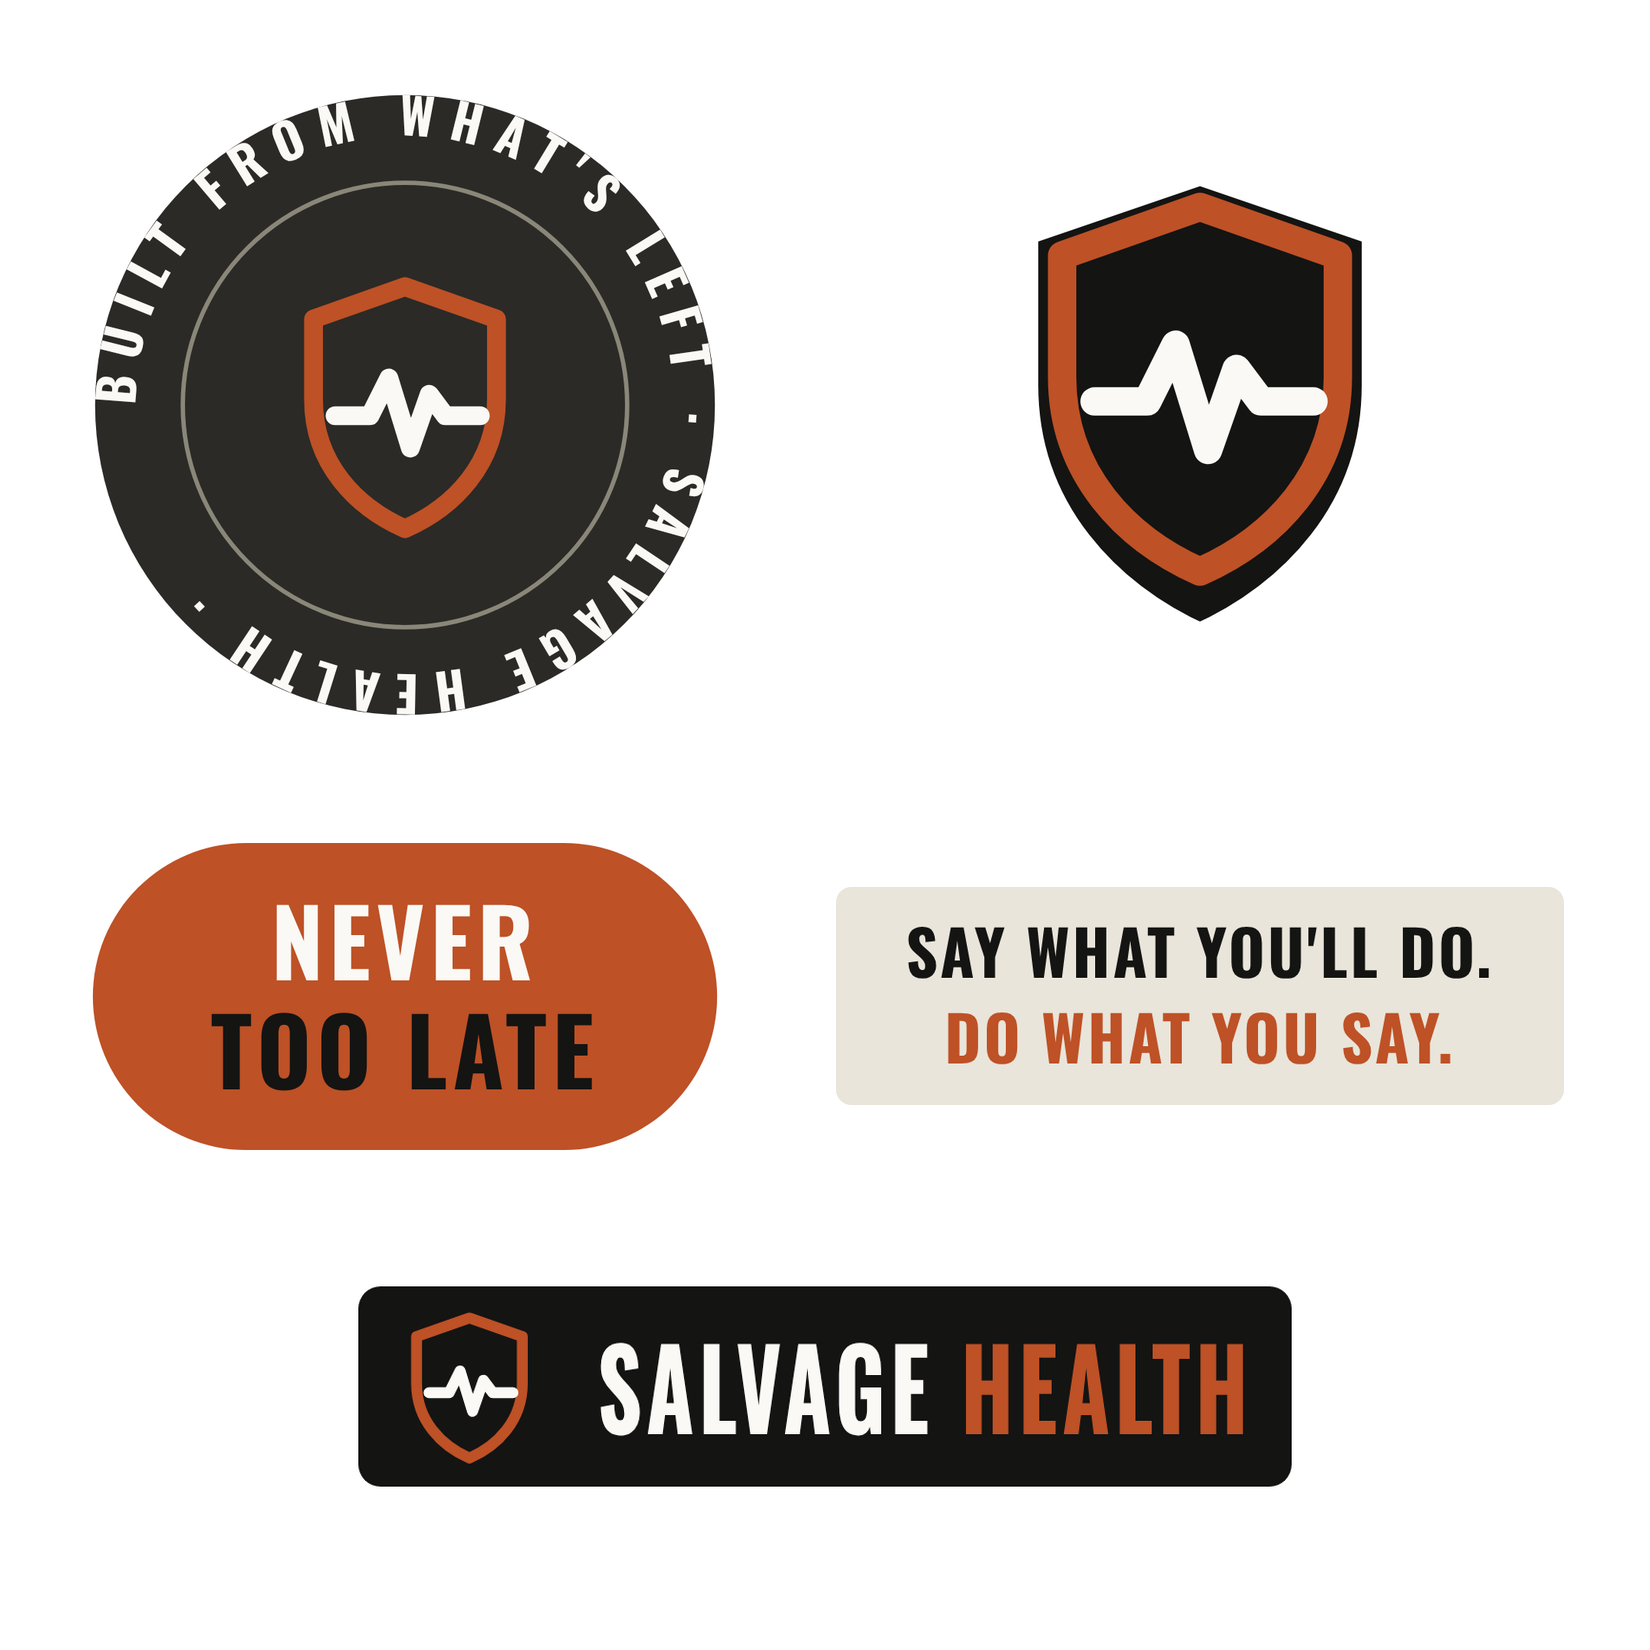
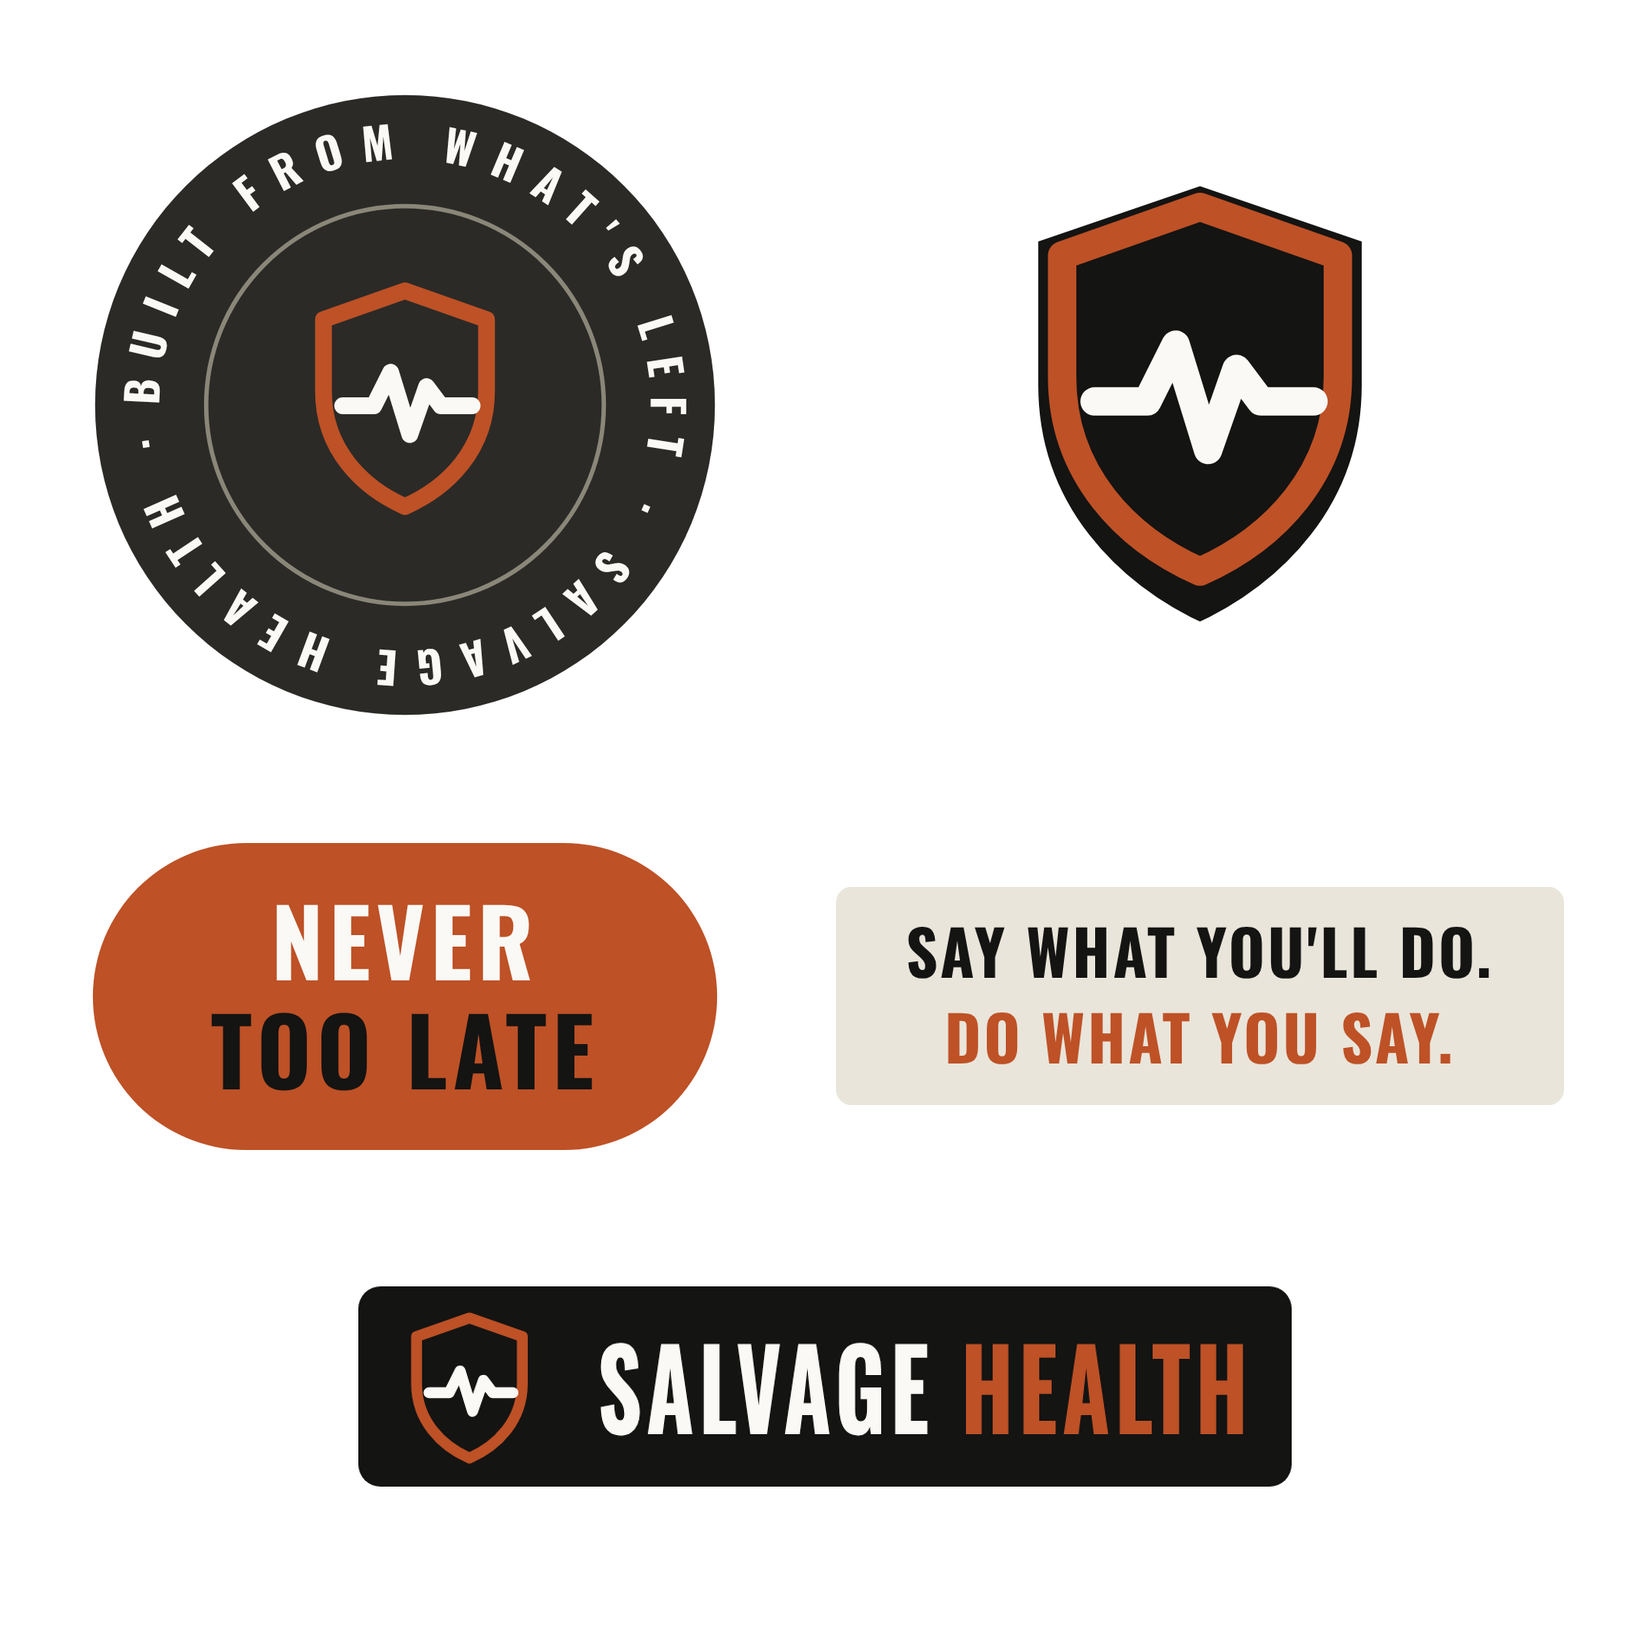
Print files: badge sticker lettering pulled in from the edge; sheet rebuilt [skip netlify]
Claude-Session: https://claude.ai/code/session_012A7Yb7HKnMicd8qQND75me

diff --git a/merch/print-files/art.js b/merch/print-files/art.js
@@ -114,8 +114,8 @@
         '<text x="150" y="78" text-anchor="middle" ' + O + ' font-size="24" fill="' + R + '" letter-spacing="1">DO WHAT YOU SAY.</text>') },
     { id: 'sticker-badge', name: 'Sticker: round badge', place: 'Die-cut, 3 in (8 cm) circle', inches: 3, bg: 'any',
       svg: svg('0 0 236 236',
-        '<circle cx="118" cy="118" r="118" fill="#FFFFFF"/><circle cx="118" cy="118" r="106" fill="#2B2A27"/><circle cx="118" cy="118" r="76" fill="none" stroke="' + M + '" stroke-width="1.5"/>' +
-        '<text ' + O + ' font-size="17" fill="' + B + '" letter-spacing="5"><textPath href="#ring" startOffset="0">BUILT FROM WHAT\'S LEFT · SALVAGE HEALTH ·</textPath></text>' +
-        '<g transform="translate(72 72) scale(.92)">' + SHIELD(R, B) + '</g>', '<path id="ring" d="M118 118 m-92 0 a92 92 0 1 1 184 0 a92 92 0 1 1 -184 0"/>') }
+        '<circle cx="118" cy="118" r="118" fill="#FFFFFF"/><circle cx="118" cy="118" r="106" fill="#2B2A27"/><circle cx="118" cy="118" r="68" fill="none" stroke="' + M + '" stroke-width="1.5"/>' +
+        '<text ' + O + ' font-size="15" fill="' + B + '" textLength="516" lengthAdjust="spacing"><textPath href="#ring" startOffset="0">BUILT FROM WHAT\'S LEFT · SALVAGE HEALTH ·</textPath></text>' +
+        '<g transform="translate(77 74) scale(.82)">' + SHIELD(R, B) + '</g>', '<path id="ring" d="M118 118 m-84 0 a84 84 0 1 1 168 0 a84 84 0 1 1 -168 0"/>') }
   ];
 })();
